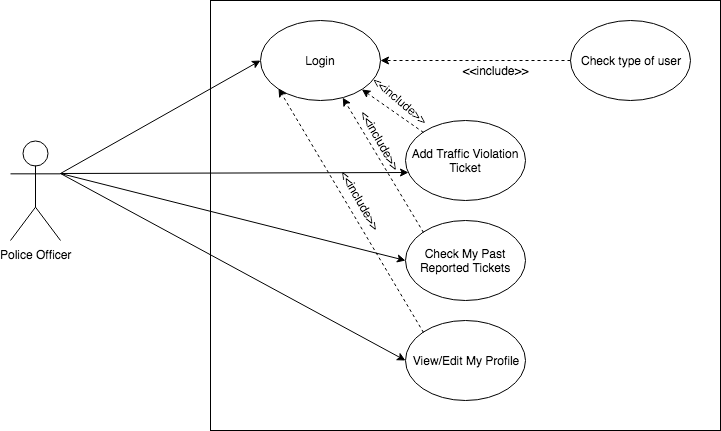
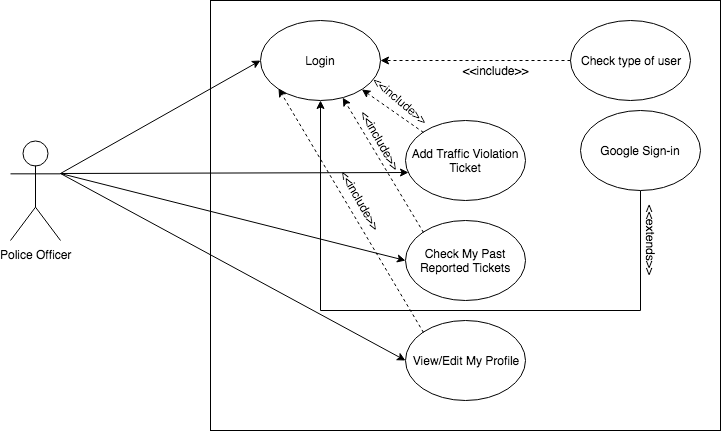
srs updated and sds initial commit with template

diff --git a/sds.html b/sds.html
@@ -1,0 +1,128 @@
+<html>
+    <head>
+        <title>SDS For Traffic Violation Ticketing System</title>
+        <link rel="stylesheet" href="./assets/css/main.css">
+    </head>
+    <body>
+        <h1>Software Design Specification</h1>
+        <h1>for</h1>
+        <h1>Traffic Violation Ticketing System</h1>
+        <p>Version 1.0 approved</p>
+        <p>Prepared by: </p>
+        <p><b>Koushik Roy</b></p>
+        <p><b>Sidratul Muntaha</b></p>
+        <p><b>Nushrat Tanzeem</b></p>
+        <p>Date: 8th October 2018</p>
+
+
+        <!-- TABLE OF CONTENTS START -->
+        <h1 id="tableofcontents">Table of Contents</h1>
+        <ul style="list-style-type:none">
+            <li><p><b><a href="#tableofcontents">Table of Contents</a></b></p></li>
+            <li><p><b><a href="#revisionhistory">Revision History</a></b></p></li>
+            <li><p><b><a href="#introduction">1. Introduction</a></b></p>
+                <ul>
+                    <li><p><a href="#purpose">1.1 Description</a></p></li>
+                    <li><p><a href="#documentconventions">1.2 Document Conventions</a></p></li>
+                    <li><p><a href="#references">1.3 References</a></p></li>
+                </ul>
+            <li><p><b><a href="#architecturaldesign">2. Architectural Design</a></b></p>
+                <ul>
+                    
+                    <li><p><a href="#purpose">2.1 Overall Descrition</a></p></li>
+                    <li><p><a href="#purpose">2.2 Framework</a></p></li>
+                    <li><p><a href="#purpose">2.3 Database</a></p></li>
+                </ul>
+            
+            <li><p><b><a href="#data">3. Data</a></b></p>
+                <ul>
+                    <li><p><a href="#purpose">3.1 Description</a></p></li>
+                    <li><p><a href="#purpose">3.2 ER Diagram</a></p></li>
+                    <li><p><a href="#purpose">3.3 ORM</a></p></li>
+                    <li><p><a href="#purpose">3.4 Model Class Diagram</a></p></li>
+                    <ul>
+                        <li><p><a href="#purpose">3.4.1 Model Class 1 Name</a></p></li>
+                        <li><p><a href="#purpose">3.4.2 Model Class 2 Name</a></p></li>
+                        <li><p><a href="#purpose">3.4.3 Model Class 3 Name</a></p></li>
+                        <li><p><a href="#purpose">3.4.4 Model Class 4 Name</a></p></li>
+                    </ul>
+                    
+                </ul>
+            </li>     
+        </ul>
+                <!-- TABLE OF CONTENTS END -->
+
+
+        <!-- Revision History Starts -->
+        <h1 id="revisionhistory">Revision History</h1>
+        <table border="1">
+        <thead>
+            <tr>
+                <td><p><strong>Name</strong></p></td>
+                <td><p><strong>Date</strong></p></td>
+                <td><p><strong>Reason For Changes</strong></p></td>
+                <td><p><strong>Version</strong></p></td>
+            </tr>
+        </thead>
+        <tbody>
+            <tr>
+                <td>Initial Revision</td>
+                <td>xxxx</td>
+                <td>xxxx</td>
+                <td>1.0</td>
+            </tr>
+        </tbody>
+        </table>
+        <!-- Revision History Ends -->
+        <h1 id="1.0">1. Introduction</h1>
+
+        <h2 id="1.1">1.1 Description</h2>
+        <p>Write a basic description of the projects</p>
+
+
+        <h2 id="1.2">1.2 Document Convention</h2>
+        <p>Write about document convention  here</p>
+
+
+
+        <h2 id="1.3">1.3 References</h2>
+        <p>Write about References  here</p>
+
+        <h1 id="2.0">2. Architectural Design</h1>
+
+        <h2 id="2.1">2.1 Overall Description</h2>
+        <p>Write about Architectural Design Description. Put some Schematic diagram of the architecture</p>
+
+        <h2 id="2.2">2.2 Framework</h2>
+        <p>Write about which framework will be used and why, The Schematic diagram of the framework</p>
+
+        <h2 id="2.3">2.3 Database</h2>
+        <p>Write about which database we will use and why we will use it. Need to mention about sharding as well.</p>
+
+
+
+        <h1 id="3.0">3. Data</h1>
+
+
+        <h2 id="3.1">3.1 Description</h2>
+        <p>Write about Data description(data type is mostly text and some images),like it will have mostly information about people and the tickets that the police will issue. which database we will use and why we will use that database</p>
+
+
+        <h2 id="3.2">3.2 ER Diagram</h2>
+        <p>Put Schematic Diagram  here</p>
+
+
+        <h2 id="3.3">3.3 ORM</h2>
+        <p>Write what is an ORM and which ORM we will use in our project and its description.</p>
+
+        <h2 id="3.4">3.4 Model Class Diagram</h2>
+        <p>Put high level model class diagram here. </p>
+
+        <h3 id="3.4.1">3.4.1 Model Class 1 Name</h3>
+        <p>Write Model Class 1 Description here</p>
+
+        <h3 id="3.4.2">3.4.2 Model Class 2 Name</h3>
+        <p>Write Model Class 2 Description here</p>
+        
+    </body>
+</html>

diff --git a/srs.html b/srs.html
@@ -100,6 +100,12 @@
                 <td>No changes</td>
                 <td>1.0</td>
             </tr>
+            <tr>
+                    <td>First Change</td>
+                    <td>24-10-2018</td>
+                    <td>Database updated, All three users will have web app not only Admin. Only Police will have a mobile app. Use Case Diagrams Updated.</td>
+                    <td>1.1</td>
+                </tr>
         </tbody>
         </table>
         <!-- Revision History Ends -->
@@ -119,9 +125,9 @@
         <p>The software deals with the implementation on a smart phone application which allows the traffic police and drivers to deal with the process of ticketing after the violation of traffic. The police takes a picture of the license and vehicle registration plate by the use of the API , and fines the driver using the app; while the driver can log into the software and input the registration ID to check the due date and the fine they have to pay. To pay this fine, the drivers then visit the adminstrator , who can also check the active tickets and resolve them. The goal is to make the whole system of traffic violation ticketing easier than before , for police,driver and also the adminstrator. 
         The benefits of this system are: 
         <ul>
-        <li>It's more accessible</li>
+        <li> It's more accessible</li>
         <li> The driver will not need to stand in line for hours to get their schedule to pay the fine</li>
-        <li>Less paperwork for adminstrator and police</li>
+        <li> Less paperwork for adminstrator and police</li>
         <li> Police will not have to go to the adminstrators office to submit the registered cases, as they will be updated automatically.</li>
         <li> Drivers will not have any chances of losing the paper, since it will be in the app</li>
         <li> Less time consuming</li>
@@ -150,7 +156,7 @@
         <p>Administrators can create account for police. They can check/resolve active tickets and will also check all past tickets. They can also edit profile and check the type of user. Drivers will register as driver in the app. They can login to the account. They can check their currently active and past tickets. They can also view or edit the profile. Police officers can add traffic violation tickets for any violation. They can also check the previous reported tickets. They can also view or edit any drivers profile.</p>
         
         <h2 id="operatingenvironment">2.4 Operating Environment</h2>
-        <p>Our Software will maintain a Client and Server System. The Client System will be in form of an mobile App which will require an <b>Android Phone</b> and a Web Application which can be used from any <b>Web Browser</b>. The Android App will be a native app and will be built using <b>Java</b> and the Web App will be built with <b>Javascript</b> using <b>React Framework</b> for front-end and <b>Redux</b> to allow central data storage. The backend will consist of the REST Apis which be developed with <b>Javascript</b> with <b>Node.js Library</b> using the <b>Express Framework</b>. The database system to be used is MongoDB.</p>
+        <p>Our Software will maintain a Client and Server System. The Client System will be in form of an mobile/web App which will require an <b>Android Phone</b> and a Web Application which can be used from any <b>Web Browser</b>. The Android App will be a native app and will be built using <b>Java</b> and the Web App will be built with <b>Javascript</b> using <b>React Framework</b> for front-end and <b>Redux</b> to allow central data storage. The backend will consist of the REST Apis which be developed with <b>Javascript</b> with <b>Node.js Library</b> using the <b>Express Framework</b>. The database system to be used is MySQL.</p>
         
         <h2 id="designconstraints">2.5 Design and Implementation Constraints</h2>
         <p>According to the app design, OCR API is needed for the image of license and number plate of the car taken by the police. So good quality image is required to get the exact results.</p>
